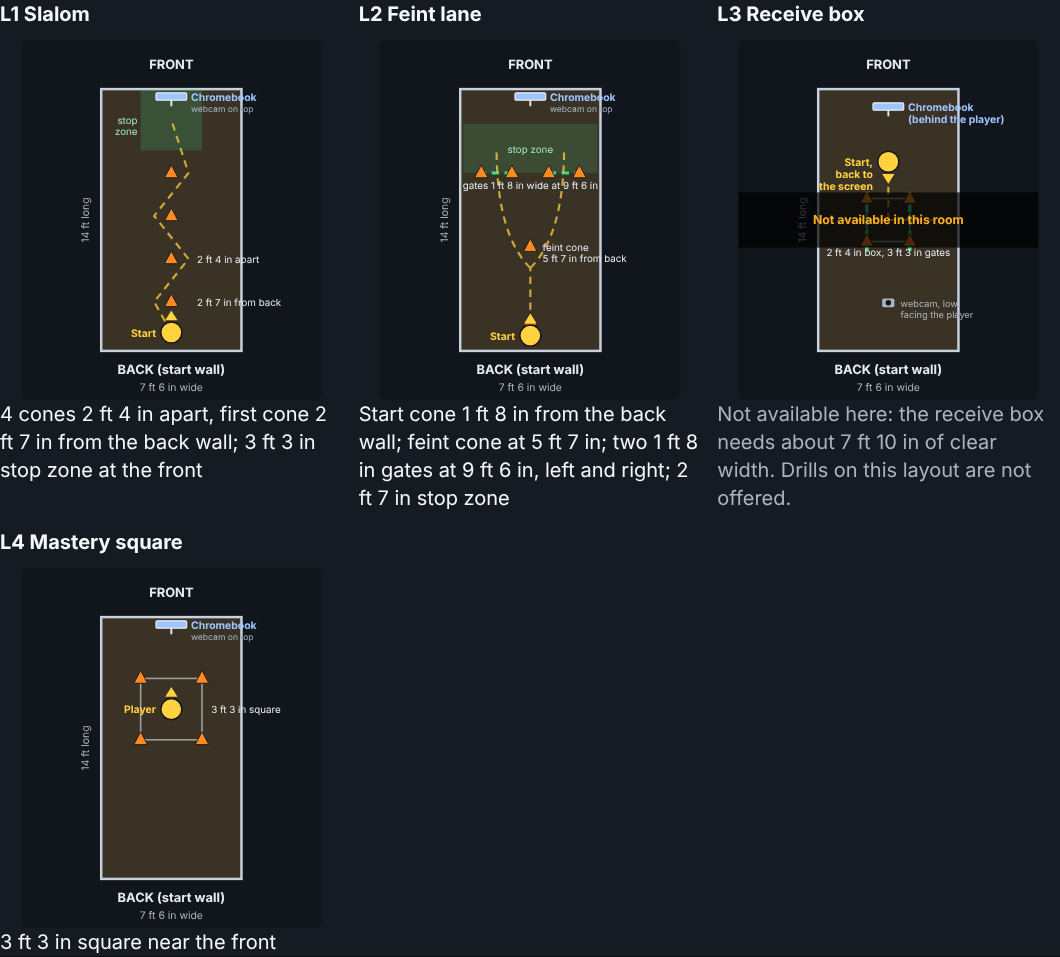
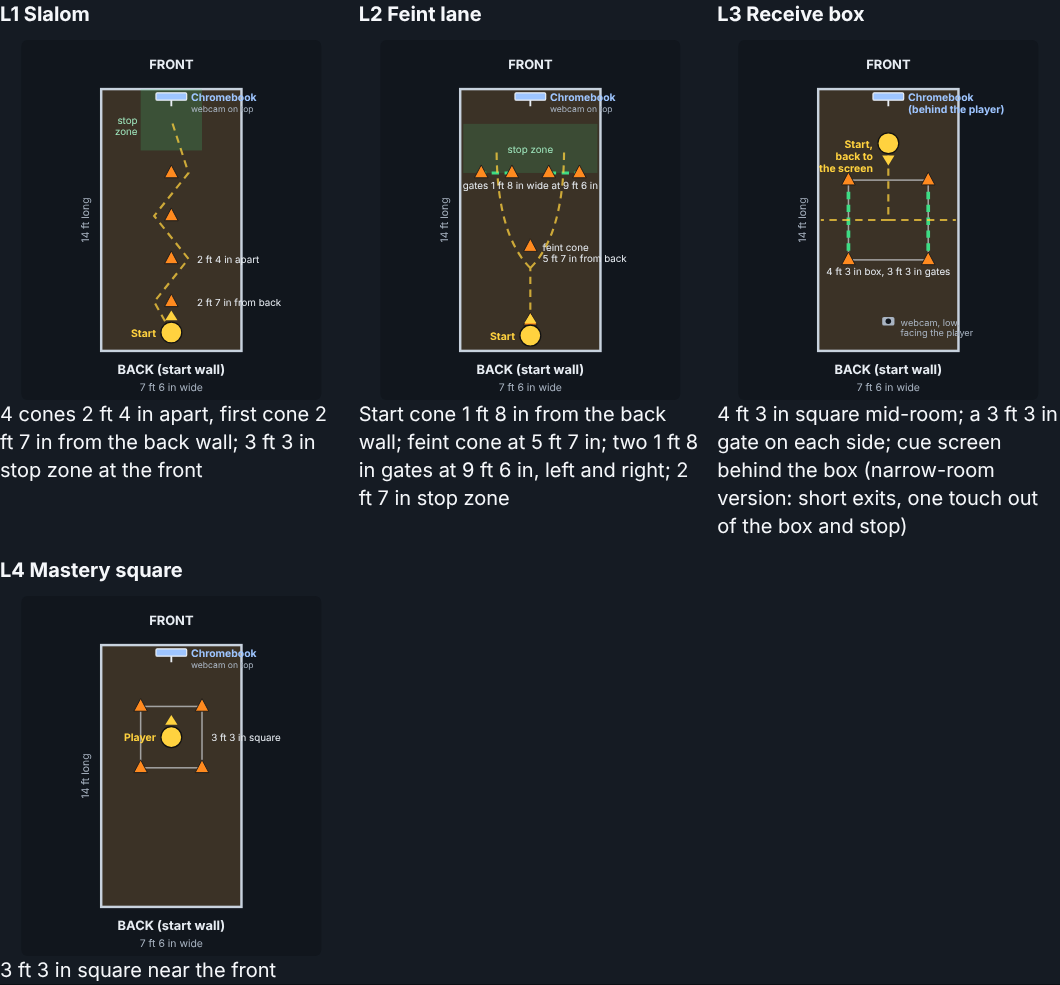
Narrow-room versions of the feint lane and receive box
Rooms too narrow for the standard gates or box now get layouts that
shrink to fit (gates closer to the lane and walls, shorter box exits),
with the minima in the content file, instead of refusing the drills.

Claude-Session: https://claude.ai/code/session_015VmgyS1ADaPWQZsQ96dL6J

diff --git a/src/domain/layout.ts b/src/domain/layout.ts
@@ -9,6 +9,10 @@ const fix = (x: number) => Number(x.toFixed(2));
 /** Lane centre to the inner cone of each feint gate, and the gap kept between a gate and a side wall. */
 export const FEINT_GATE_INNER_M = 0.3;
 export const WALL_GAP_M = 0.3;
+/** The standard layouts' smallest feint gate and receive box; below these the narrow-room version is used. */
+export const MIN_GATE_M = 0.5;
+export const MIN_BOX_M = 0.9;
+export const gateInner = (d: DerivedLayout) => d.feintGateInnerM ?? FEINT_GATE_INNER_M;
 
 export interface RoomInput {
   roomLengthM: number;
@@ -29,10 +33,33 @@ export function deriveLayout(room: RoomInput, g: LayoutGeometry): DerivedLayout 
   const feintCone = Math.min(f.maxFeintConeM, floorTo(room.roomLengthM - f.gatePastConeM - f.stopZoneM - f.startFromWallM));
   // Gates sit 0.3 m either side of the lane; in a narrow room they get narrower so each outer
   // cone keeps 0.3 m from the side wall (the standard 3 m room keeps the plan's gate width).
-  const gateWidth = Math.min(f.gateWidthM, floorTo(Number((room.roomWidthM / 2 - FEINT_GATE_INNER_M - WALL_GAP_M).toFixed(3))));
+  const half = room.roomWidthM / 2;
+  let inner = FEINT_GATE_INNER_M;
+  let gateWidth = Math.min(f.gateWidthM, floorTo(Number((half - FEINT_GATE_INNER_M - WALL_GAP_M).toFixed(3))));
+  const narrow: string[] = [];
+  // Narrow-room version (content: feintLane.narrow): too narrow for 0.5 m gates, so the gates move
+  // in toward the lane and closer to the walls, and stay at least minGateM wide.
+  const fn = f.narrow;
+  if (fn && gateWidth < MIN_GATE_M - 1e-9) {
+    const w = Math.min(f.gateWidthM, floorTo(Number((half - fn.innerM - fn.wallGapM).toFixed(3)), 0.05));
+    if (w >= fn.minGateM - 1e-9) {
+      inner = fn.innerM;
+      gateWidth = w;
+      narrow.push('L2');
+    }
+  }
 
   const r = g.receiveBox;
-  const box = Math.min(r.maxSideM, floorTo(room.roomWidthM - 2 * r.sideClearanceM));
+  let box = Math.min(r.maxSideM, floorTo(room.roomWidthM - 2 * r.sideClearanceM));
+  // Narrow-room version (content: receiveBox.narrow): shorter exits either side of the box.
+  const rn = r.narrow;
+  if (rn && box < MIN_BOX_M - 1e-9) {
+    const b = Math.min(r.maxSideM, floorTo(room.roomWidthM - 2 * rn.sideClearanceM));
+    if (b >= rn.minSideM - 1e-9) {
+      box = b;
+      narrow.push('L3');
+    }
+  }
 
   return {
     slalomCones: s.cones,
@@ -43,12 +70,15 @@ export function deriveLayout(room: RoomInput, g: LayoutGeometry): DerivedLayout 
     feintConeM: fix(feintCone),
     feintGateAtM: fix(round(feintCone + f.gatePastConeM)),
     feintGateWidthM: fix(Math.max(0, gateWidth)),
+    ...(inner !== FEINT_GATE_INNER_M ? { feintGateInnerM: inner } : {}),
     feintStopZoneM: fix(f.stopZoneM),
     // Six cones with a start cone; with five, the run starts from the back wall.
     ...(room.cones < 6 ? { feintStartCone: false } : {}),
     receiveBoxSideM: fix(box),
-    receiveGateWidthM: fix(r.gateWidthM),
+    // A gate is never wider than the box side it sits on.
+    receiveGateWidthM: fix(Math.min(r.gateWidthM, box)),
     masterySquareM: fix(g.masterySquare.sideM),
+    ...(narrow.length ? { narrow } : {}),
   };
 }
 
@@ -78,8 +108,8 @@ export function layoutSummary(d: DerivedLayout, units: Units = 'metric'): Record
   const start = d.feintStartCone === false ? 'Start at the back wall (no start cone)' : `Start cone ${L(d.feintStartM ?? 0.5)} from the back wall`;
   return {
     L1: `${d.slalomCones ?? 5} cones ${L(d.slalomSpacingM)} apart, first cone ${L(d.slalomFirstConeM)} from the back wall; ${L(d.slalomStopZoneM)} stop zone at the front`,
-    L2: `${start}; feint cone at ${L(d.feintConeM)}; two ${L(d.feintGateWidthM)} gates at ${L(d.feintGateAtM)}, left and right; ${L(d.feintStopZoneM)} stop zone`,
-    L3: `${L(d.receiveBoxSideM)} square mid-room; a ${L(d.receiveGateWidthM)} gate on each side; cue screen behind the box`,
+    L2: `${start}; feint cone at ${L(d.feintConeM)}; two ${L(d.feintGateWidthM)} gates at ${L(d.feintGateAtM)}, left and right${d.narrow?.includes('L2') ? `, ${L(gateInner(d))} either side of the lane (narrow-room version)` : ''}; ${L(d.feintStopZoneM)} stop zone`,
+    L3: `${L(d.receiveBoxSideM)} square mid-room; a ${L(d.receiveGateWidthM)} gate on each side; cue screen behind the box${d.narrow?.includes('L3') ? ' (narrow-room version: short exits, one touch out of the box and stop)' : ''}`,
     L4: `${L(d.masterySquareM)} square near the front`,
   };
 }

diff --git a/src/domain/room.ts b/src/domain/room.ts
@@ -1,6 +1,6 @@
 import type { LayoutGeometry } from '../content/types';
 import type { DerivedLayout, Pt, RoomLayout, RoomProfile, UsableSpaceClass } from '../db/types';
-import { deriveLayout, type RoomInput } from './layout';
+import { deriveLayout, gateInner, MIN_BOX_M, MIN_GATE_M, type RoomInput } from './layout';
 
 // Room profiles (part 15 D1, part 16 §2). No tape, no measuring: the usable space comes
 // from the parent's pick of a class, the safe floor polygon drawn on the camera photo, or
@@ -66,6 +66,17 @@ export function roomInputFor(p: RoomProfile, cones: number): RoomInput {
   return { roomLengthM: dims.length, roomWidthM: dims.width, floor: p.floor, wallUsable: p.wallUsable, cones };
 }
 
+/** The narrowest room each layout fits, in metres (with the narrow-room version when the content has one). */
+export function minWidthM(g: LayoutGeometry, layoutId: 'L2' | 'L3'): number {
+  if (layoutId === 'L2') {
+    const n = g.feintLane.narrow;
+    return n ? 2 * (n.innerM + n.minGateM + n.wallGapM) : 2 * (0.3 + MIN_GATE_M + 0.3);
+  }
+  const n = g.receiveBox.narrow;
+  return n ? n.minSideM + 2 * n.sideClearanceM : MIN_BOX_M + 2 * g.receiveBox.sideClearanceM;
+}
+const narrowWidthText = (g: LayoutGeometry, id: 'L2' | 'L3') => `${(Math.ceil(minWidthM(g, id) * 10) / 10).toFixed(1)} m`;
+
 /** Minimum geometry each layout needs to stay safe and meaningful (no long runs, no sprinting). */
 export function layoutFit(layoutId: string, d: DerivedLayout, g: LayoutGeometry, cones?: number): { ok: boolean; reason?: string } {
   const need = layoutCones(layoutId, d, 0).length;
@@ -77,9 +88,11 @@ export function layoutFit(layoutId: string, d: DerivedLayout, g: LayoutGeometry,
         : { ok: false, reason: 'the slalom needs about 3.5 m of clear length' };
     case 'L2':
       if (d.feintConeM < 1.5) return { ok: false, reason: 'the feint lane needs about 4 m of clear length' };
-      return d.feintGateWidthM >= 0.5 - 1e-9 ? { ok: true } : { ok: false, reason: 'the feint gates need about 2.2 m of clear width' };
+      if (d.narrow?.includes('L2')) return { ok: true };
+      return d.feintGateWidthM >= MIN_GATE_M - 1e-9 ? { ok: true } : { ok: false, reason: `the feint gates need about ${narrowWidthText(g, 'L2')} of clear width` };
     case 'L3':
-      return d.receiveBoxSideM >= 0.9 ? { ok: true } : { ok: false, reason: 'the receive box needs about 2.4 m of clear width' };
+      if (d.narrow?.includes('L3')) return { ok: true };
+      return d.receiveBoxSideM >= MIN_BOX_M - 1e-9 ? { ok: true } : { ok: false, reason: `the receive box needs about ${narrowWidthText(g, 'L3')} of clear width` };
     case 'L4':
       return d.masterySquareM >= 1 ? { ok: true } : { ok: false, reason: 'needs a 1 m square' };
     default:
@@ -191,13 +204,14 @@ export function layoutCones(layoutId: string, d: DerivedLayout, lengthM: number)
     }
     case 'L2': {
       const g = d.feintGateWidthM;
+      const gi = gateInner(d);
       return [
         ...(d.feintStartCone === false ? [] : [{ name: 'Start cone', floor: [0, d.feintStartM ?? 0.5] as [number, number] }]),
         { name: 'Feint cone', floor: [0, d.feintConeM] },
-        { name: 'Left gate, inner', floor: [-0.3, d.feintGateAtM] },
-        { name: 'Left gate, outer', floor: [-0.3 - g, d.feintGateAtM] },
-        { name: 'Right gate, inner', floor: [0.3, d.feintGateAtM] },
-        { name: 'Right gate, outer', floor: [0.3 + g, d.feintGateAtM] },
+        { name: 'Left gate, inner', floor: [-gi, d.feintGateAtM] },
+        { name: 'Left gate, outer', floor: [-gi - g, d.feintGateAtM] },
+        { name: 'Right gate, inner', floor: [gi, d.feintGateAtM] },
+        { name: 'Right gate, outer', floor: [gi + g, d.feintGateAtM] },
       ];
     }
     case 'L3': {

diff --git a/src/domain/room.test.ts b/src/domain/room.test.ts
@@ -1,6 +1,7 @@
 import { describe, expect, it } from 'vitest';
 import { loadProgramme } from '../test/fixtures';
-import { classFromDims, effectiveDims, layoutFit, layoutFromProfile, newProfile, polygonDims, profileChanged, profileClass, roomInputFor, scaledLayout, suggestPoint } from './room';
+import { classFromDims, effectiveDims, layoutCones, layoutFit, layoutFromProfile, newProfile, polygonDims, profileChanged, profileClass, roomInputFor, scaledLayout, suggestPoint } from './room';
+import { layoutSummary } from './layout';
 
 const p = loadProgramme();
 const g = p.layoutGeometry;
@@ -36,7 +37,9 @@ describe('room profiles (part 15 D1)', () => {
     const small = { ...big, safePolygonNormalized: [{ x: 0.35, y: 0.95 }, { x: 0.65, y: 0.95 }, { x: 0.6, y: 0.72 }, { x: 0.4, y: 0.72 }] };
     const f = fits(small);
     expect(f.L2).toBe(false);
-    expect(f.L3).toBe(false);
+    // About 1.8 m wide: the narrow-room receive box still fits.
+    expect(f.L3).toBe(true);
+    expect(scaledLayout(roomInputFor(small, 12), g).narrow).toContain('L3');
     expect(f.L4).toBe(true);
     expect(layoutFit('L2', scaledLayout(roomInputFor(small, 12), g), g).reason).toMatch(/clear length/);
     expect(profileClass(small)).toBe('compact');
@@ -101,10 +104,33 @@ describe('layouts follow the room inputs', () => {
     expect(layoutFit('L3', d3, g, 3).reason).toBe('needs 4 cones (you have 3)');
     expect(layoutFit('L1', d3, g, 3).ok).toBe(true);
   });
-  it('in a narrow room the feint gates narrow to keep clear of the side walls, and refuse below 0.5 m', () => {
-    expect(scaledLayout(room({ roomWidthM: 2.4 }), g).feintGateWidthM).toBe(0.6);
-    const tight = scaledLayout(room({ roomWidthM: 2.0 }), g);
-    expect(tight.feintGateWidthM).toBe(0.4);
-    expect(layoutFit('L2', tight, g).reason).toMatch(/clear width/);
+  it('in a narrow room the feint gates narrow to keep clear of the side walls', () => {
+    const d = scaledLayout(room({ roomWidthM: 2.4 }), g);
+    expect(d.feintGateWidthM).toBe(0.6);
+    expect(d.narrow).toBeUndefined();
+  });
+  it('a 6 ft 2 in room gets the narrow-room feint lane and receive box instead of refusing them', () => {
+    const d = scaledLayout(room({ roomLengthM: 4.27, roomWidthM: 1.88 }), g);
+    expect(d.narrow).toEqual(['L2', 'L3']);
+    expect(d.feintGateInnerM).toBe(0.2);
+    expect(d.feintGateWidthM).toBe(0.55);
+    expect(d.receiveBoxSideM).toBe(0.9);
+    expect(d.receiveGateWidthM).toBe(0.9);
+    expect(layoutFit('L2', d, g).ok).toBe(true);
+    expect(layoutFit('L3', d, g).ok).toBe(true);
+    // Every gate cone stays 0.15 m or more from the side walls.
+    for (const c of layoutCones('L2', d, 4.27)) expect(Math.abs(c.floor[0])).toBeLessThanOrEqual(1.88 / 2 - 0.15 + 1e-9);
+    expect(layoutSummary(d).L2).toMatch(/narrow-room version/);
+  });
+  it('below the narrow-room minimum, the layouts are refused with the width they need', () => {
+    const d = scaledLayout(room({ roomWidthM: 1.5 }), g);
+    expect(layoutFit('L2', d, g)).toEqual({ ok: false, reason: 'the feint gates need about 1.6 m of clear width' });
+    expect(layoutFit('L3', d, g)).toEqual({ ok: false, reason: 'the receive box needs about 1.8 m of clear width' });
+  });
+  it('the standard room keeps the standard layouts', () => {
+    const d = scaledLayout(room({}), g);
+    expect(d.narrow).toBeUndefined();
+    expect(d.feintGateInnerM).toBeUndefined();
+    expect(d.receiveGateWidthM).toBe(1);
   });
 });

diff --git a/src/ui/drillScripts.ts b/src/ui/drillScripts.ts
@@ -1,4 +1,5 @@
 import type { DerivedLayout } from '../db/types';
+import { gateInner } from '../domain/layout';
 
 // Scripted drill animations for the drills that combine a move with the app's own cue (no outside video
 // shows the whole drill). Room coordinates as in LayoutDiagram: x across (her left is -x when she faces the
@@ -72,7 +73,7 @@ export function scriptFor(drillId: string, d: DerivedLayout, lengthM: number): D
   const sy = d.feintStartCone === false ? 0.3 : d.feintStartM ?? 0.5;
   const cy = d.feintConeM;
   const gy = d.feintGateAtM;
-  const gx = 0.3 + d.feintGateWidthM / 2;
+  const gx = gateInner(d) + d.feintGateWidthM / 2;
   const sz = Math.min(lengthM - 0.35, gy + d.feintStopZoneM / 2);
   const lane = (caption: string) => ({ p: [0, sy] as V, b: [0, sy + 0.35] as V, face: FRONT, lean: 0, cue: '', caption });
   const approach = (title: string, caption = 'Dribble at pace toward the feint cone', stopShort = 0.9) =>
@@ -171,6 +172,8 @@ export function scriptFor(drillId: string, d: DerivedLayout, lengthM: number): D
   // Receive box (L3): she starts between the box and the screen, facing the back wall; her left is +x then.
   const mid = lengthM / 2;
   const s = d.receiveBoxSideM / 2;
+  // The narrow-room version keeps exits short: one touch out of the box and stop.
+  const exitM = d.narrow?.includes('L3') ? 0.35 : 0.75;
   const p0: V = [0, mid + s + 0.6];
   const box = (title: string, caption: string) => scene(title, { p: p0, b: [0, mid + s + 0.3], face: BACK, lean: 0, cue: '', caption });
   const push = (sc: ReturnType<typeof scene>) => sc.to(1.0, { b: [0, mid + 0.15], p: [0, mid + s + 0.15], caption: 'Push the ball 2 m into the box and follow it' });
@@ -180,7 +183,7 @@ export function scriptFor(drillId: string, d: DerivedLayout, lengthM: number): D
     const x = herSide === 'left' ? 1 : -1;
     return sc
       .to(0.5, { b: [x * (s + 0.15), mid], p: [x * 0.15, mid + 0.2], caption })
-      .to(0.7, { b: [x * (s + 0.75), mid], p: [x * (s + 0.4), mid], caption: `Through the ${herSide} gate` })
+      .to(0.7, { b: [x * (s + exitM), mid], p: [x * (s + exitM - 0.35), mid], caption: `Through the ${herSide} gate` })
       .hold(0.9);
   };
   switch (drillId) {
@@ -219,7 +222,7 @@ export function scriptFor(drillId: string, d: DerivedLayout, lengthM: number): D
         target,
         scenes: [
           out(look(push(box('If the screen says RIGHT FREE', 'Start between the box and the screen, facing away from it')), 'RIGHT FREE'), 'right', 'Touch to the free side')
-            .to(0.6, { b: [-(s + 0.5), mid - 0.6], p: [-(s + 0.4), mid - 0.3], caption: 'Two dribble touches' })
+            .to(0.6, { b: [-(s + exitM - 0.25), mid - 0.6], p: [-(s + exitM - 0.35), mid - 0.3], caption: 'Two dribble touches' })
             .to(0.7, { b: target, caption: 'Short pass into the target with the exit foot' })
             .hold(0.8)
             .done(),

diff --git a/src/ui/LayoutDiagram.tsx b/src/ui/LayoutDiagram.tsx
@@ -1,5 +1,6 @@
 import type { DerivedLayout, RoomLayout } from '../db/types';
 import { layoutCones } from '../domain/room';
+import { gateInner } from '../domain/layout';
 import { fmtLen, type Units } from '../domain/units';
 
 // Top-down plan of one drill layout in the room (not to an exact scale the parent must match:
@@ -80,7 +81,7 @@ export function LayoutDiagram({ layoutId, d, lengthM, widthM, floor = 'hard', un
     pts.push(`L ${X(0)} ${Y(lengthM - d.slalomStopZoneM / 2)}`);
     route = pts.join(' ');
   } else if (layoutId === 'L2') {
-    const gx = 0.3 + d.feintGateWidthM / 2;
+    const gx = gateInner(d) + d.feintGateWidthM / 2;
     route = `M ${X(0)} ${Y(player.y)} L ${X(0)} ${Y(d.feintConeM - 0.35)} M ${X(0)} ${Y(d.feintConeM - 0.35)} Q ${X(-gx)} ${Y(d.feintConeM + 0.2)} ${X(-gx)} ${Y(d.feintGateAtM + 0.4)} M ${X(0)} ${Y(d.feintConeM - 0.35)} Q ${X(gx)} ${Y(d.feintConeM + 0.2)} ${X(gx)} ${Y(d.feintGateAtM + 0.4)}`;
   } else if (scanning) {
     route = `M ${X(0)} ${Y(player.y - 0.2)} L ${X(0)} ${Y(mid)} M ${X(0)} ${Y(mid)} L ${X(-boxS - 0.45)} ${Y(mid)} M ${X(0)} ${Y(mid)} L ${X(boxS + 0.45)} ${Y(mid)}`;
@@ -107,7 +108,7 @@ export function LayoutDiagram({ layoutId, d, lengthM, widthM, floor = 'hard', un
 
       {/* Gates */}
       {layoutId === 'L2'
-        ? [-1, 1].map((s) => <line key={s} x1={X(s * 0.3)} y1={Y(d.feintGateAtM)} x2={X(s * (0.3 + d.feintGateWidthM))} y2={Y(d.feintGateAtM)} stroke="#3ddc84" strokeWidth={0.05} {...dash} />)
+        ? [-1, 1].map((s) => <line key={s} x1={X(s * gateInner(d))} y1={Y(d.feintGateAtM)} x2={X(s * (gateInner(d) + d.feintGateWidthM))} y2={Y(d.feintGateAtM)} stroke="#3ddc84" strokeWidth={0.05} {...dash} />)
         : null}
       {scanning ? (
         <>

diff --git a/e2e/18-layout-diagram.spec.ts b/e2e/18-layout-diagram.spec.ts
@@ -37,9 +37,20 @@ test('the cone plans follow the size, the cones and the units', async ({ page })
   await page.getByLabel('Clear floor width inches').fill('6');
   await expect(l1).toContainText('14 ft long');
   await expect(page.getByTestId('layout-diagram-L2')).toContainText(/gates 1 ft 8 in wide/);
-  await expect(page.getByText(/receive box needs about 7 ft 10 in of clear width/)).toBeVisible();
+  // 7 ft 6 in wide: the standard gates still fit; the receive box uses its narrow-room version.
+  await expect(page.getByText(/cue screen behind the box \(narrow-room version/)).toBeVisible();
   const s3 = shot('03-small-room-feet-inches');
   if (s3) await grid.screenshot({ path: s3 });
+
+  // 14 ft × 6 ft 2 in: both the feint lane and the receive box use their narrow-room versions.
+  await page.getByLabel('Clear floor width feet').fill('6');
+  await page.getByLabel('Clear floor width inches').fill('2');
+  await expect(page.getByTestId('layout-diagram-L2')).toContainText(/gates 1 ft (9|10) in wide/);
+  await expect(page.getByText(/left and right, (0 ft )?8 in either side of the lane \(narrow-room version\)/)).toBeVisible();
+  await expect(page.getByText(/narrow-room version: short exits/)).toBeVisible();
+  await expect(page.getByText('Not available here', { exact: false })).toHaveCount(0);
+  const s3b = shot('03b-narrow-room-feet-inches');
+  if (s3b) await grid.screenshot({ path: s3b });
 
   // Fewer cones: the slalom shortens, the feint lane loses its start cone, then refuses.
   await button(page, 'Metres').click();

diff --git a/src/content/types.ts b/src/content/types.ts
@@ -199,8 +199,23 @@ export interface AnchorCheck {
 export interface LayoutGeometry {
   defaults: { roomLengthM: number; roomWidthM: number; floor: string; wallUsable: boolean; cones: number };
   slalom: { cones: number; startFromWallM: number; stopZoneM: number; marginM: number; maxSpacingM: number; minSpacingM: number };
-  feintLane: { startFromWallM: number; maxFeintConeM: number; gatePastConeM: number; gateWidthM: number; stopZoneM: number };
-  receiveBox: { maxSideM: number; sideClearanceM: number; gateWidthM: number; cueScreenBehindM: number };
+  feintLane: {
+    startFromWallM: number;
+    maxFeintConeM: number;
+    gatePastConeM: number;
+    gateWidthM: number;
+    stopZoneM: number;
+    /** Narrow-room version: gates closer to the lane and to the side walls, never narrower than minGateM. */
+    narrow?: { innerM: number; wallGapM: number; minGateM: number };
+  };
+  receiveBox: {
+    maxSideM: number;
+    sideClearanceM: number;
+    gateWidthM: number;
+    cueScreenBehindM: number;
+    /** Narrow-room version: shorter exits either side of a box no smaller than minSideM. */
+    narrow?: { sideClearanceM: number; minSideM: number };
+  };
   masterySquare: { sideM: number };
 }
 

diff --git a/src/content/validate.ts b/src/content/validate.ts
@@ -183,8 +183,8 @@ const programmeShape: Check = obj({
   layoutGeometry: obj({
     defaults: obj({ roomLengthM: posNum, roomWidthM: posNum, floor: str, wallUsable: bool, cones: num }),
     slalom: obj({ cones: posNum, startFromWallM: num, stopZoneM: num, marginM: num, maxSpacingM: posNum, minSpacingM: posNum }),
-    feintLane: obj({ startFromWallM: num, maxFeintConeM: posNum, gatePastConeM: posNum, gateWidthM: posNum, stopZoneM: posNum }),
-    receiveBox: obj({ maxSideM: posNum, sideClearanceM: num, gateWidthM: posNum, cueScreenBehindM: num }),
+    feintLane: obj({ startFromWallM: num, maxFeintConeM: posNum, gatePastConeM: posNum, gateWidthM: posNum, stopZoneM: posNum, narrow: optional(obj({ innerM: posNum, wallGapM: posNum, minGateM: posNum })) }),
+    receiveBox: obj({ maxSideM: posNum, sideClearanceM: num, gateWidthM: posNum, cueScreenBehindM: num, narrow: optional(obj({ sideClearanceM: posNum, minSideM: posNum })) }),
     masterySquare: obj({ sideM: posNum }),
   }),
   baselines: list(obj({ areaId: str, blocks: list(block), questions: list(str), defaultStartSession: posNum })),

diff --git a/e2e/04-trials.spec.ts b/e2e/04-trials.spec.ts
@@ -52,10 +52,10 @@ test('Keep this on the summary; Report a problem is saved for the coding agent',
   await button(page, 'Keep this').click();
   await expect(page.locator('.card', { hasText: 'Dribbling · Session 1' })).toContainText('Dribbling Session 2 is unlocked.');
   const [report] = await table<{ note: string; appVersion: string; contentVersion: string }>(page, 'problemReports');
-  expect(report).toMatchObject({ note: 'the timer skipped', appVersion: '0.1.0', contentVersion: '0.5.1' });
+  expect(report).toMatchObject({ note: 'the timer skipped', appVersion: '0.1.0', contentVersion: '0.5.2' });
   await home(page);
   await openParent(page, /^Trials/);
-  await expect(page.getByText(/app 0\.1\.0 · content 0\.5\.1: the timer skipped/)).toBeVisible();
+  await expect(page.getByText(/app 0\.1\.0 · content 0\.5\.2: the timer skipped/)).toBeVisible();
 });
 
 test('Keep this drill on a trial end-of-drill card keeps that benchmark result only', async ({ page }) => {

diff --git a/src/screens/parent/CameraSection.tsx b/src/screens/parent/CameraSection.tsx
@@ -82,7 +82,7 @@ function Wizard({ family, deviceId, deviceLabel, onDone }: { family: DrillFamily
   const videoRef = useRef<HTMLVideoElement>(null);
   const [step, setStep] = useState(0);
   const [photo, setPhoto] = useState<{ blob: Blob; width: number; height: number; url: string } | null>(null);
-  const cones = useMemo(() => (layout ? calibrationCones(family, layout.derived) : []), [family, layout]);
+  const cones = useMemo(() => (layout ? calibrationCones(family, layout.derived, undefined, layout.derived.feintGateInnerM !== undefined ? layout.derived.feintGateInnerM + layout.derived.feintGateWidthM / 2 : undefined) : []), [family, layout]);
   const [conePts, setConePts] = useState<Pt[]>([]);
   const spec = FAMILY_ZONES[family];
   const zoneNames = [...spec.zones, ...(spec.tripwire ? ['tripwire'] : [])];

diff --git a/src/db/types.ts b/src/db/types.ts
@@ -27,9 +27,13 @@ export interface DerivedLayout {
   feintStopZoneM: number;
   /** False when there are too few cones for a start cone: the run starts from the back wall. Absent = true. */
   feintStartCone?: boolean;
+  /** Lane centre to the inner cone of each feint gate. Absent = 0.3 m (the standard layout). */
+  feintGateInnerM?: number;
   receiveBoxSideM: number;
   receiveGateWidthM: number;
   masterySquareM: number;
+  /** Layouts shrunk to fit a narrow room (e.g. ['L2', 'L3']). Absent = none. */
+  narrow?: string[];
 }
 
 export interface RoomLayout {

diff --git a/src/ui/drillScripts.test.ts b/src/ui/drillScripts.test.ts
@@ -8,6 +8,8 @@ const rooms = [
   { roomLengthM: 6.1, roomWidthM: 3.0 },
   { roomLengthM: 4.2, roomWidthM: 2.4 },
   { roomLengthM: 7.5, roomWidthM: 3.6 },
+  // 14 ft × 6 ft 2 in: the narrow-room versions of L2 and L3.
+  { roomLengthM: 4.27, roomWidthM: 1.88 },
 ];
 
 describe('drill animations', () => {
